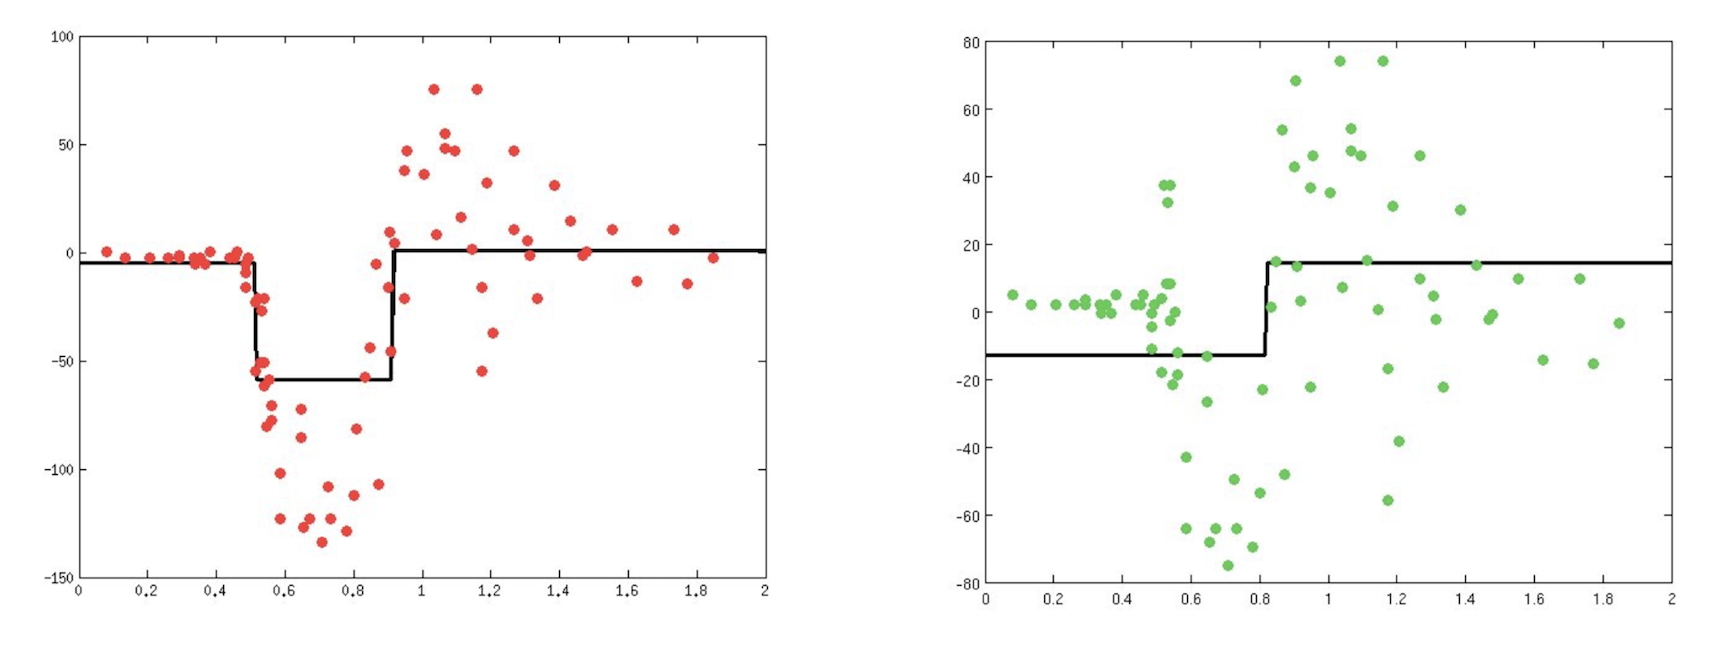
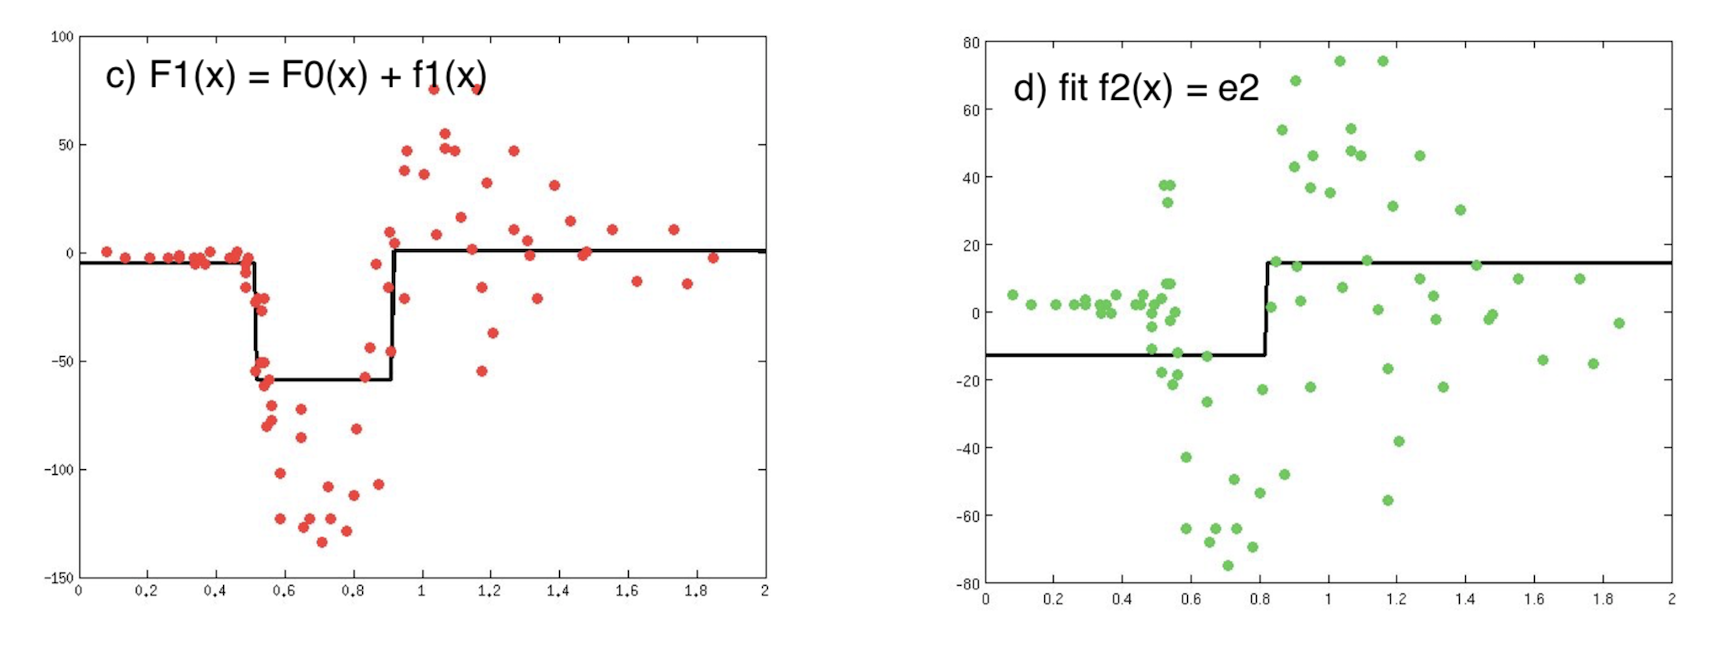
boosting

Changed region(s): [[0.0625, 0.0896, 0.2812, 0.1493], [0.5625, 0.0896, 0.75, 0.1493]]

diff --git a/Ensemble/Boosting/README.md b/Ensemble/Boosting/README.md
@@ -89,11 +89,11 @@ We usually start with a very simple estimator, say one-layer decision tree to fi
 
 ![](images/GBM1.png)
 
-In the above left plot in (a), the black line indicates `F0(x) = f0(x)` the **first** predictor (model). Then we compute the residuals `e1 = y - y0` (`y0 = f0(x)`) shown as green dots on the right hand plot in (b). Next we build another model to fit the **residuals** 
+In the above left plot (a), the black line indicates `F0(x) = f0(x)` the **first** predictor (model). Then we compute the residuals `e1 = y - y0` (`y0 = f0(x)`) shown as green dots on the right hand plot (b). Next we build another model to fit the **residuals** 
 
     f1(x) = e1
 
-Similarly, the black line in (b) indicates the `f1(x)` predictor. Now we can combine the predictors `F1(x) = F0(x) + f1(x)` and the resulting predictor is the black line shown in the left hand plot below
+Similarly, the black line in (b) indicates the `f1(x)` predictor. Now we can combine the predictors `F1(x) = F0(x) + f1(x)` and the resulting predictor is the black line shown in below left (c)
 
 ![](images/GBM2.png)
 
